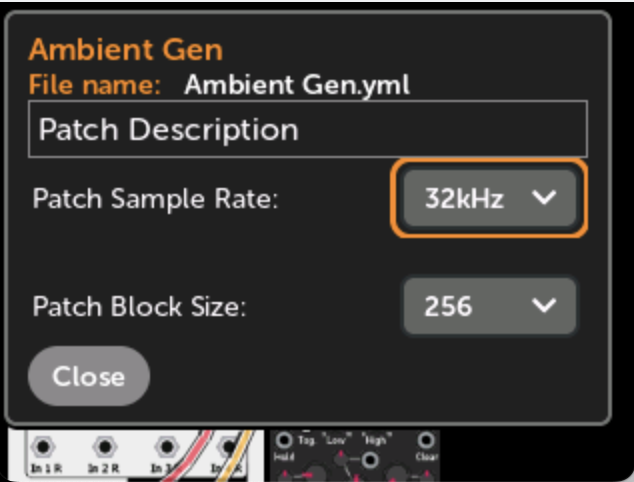
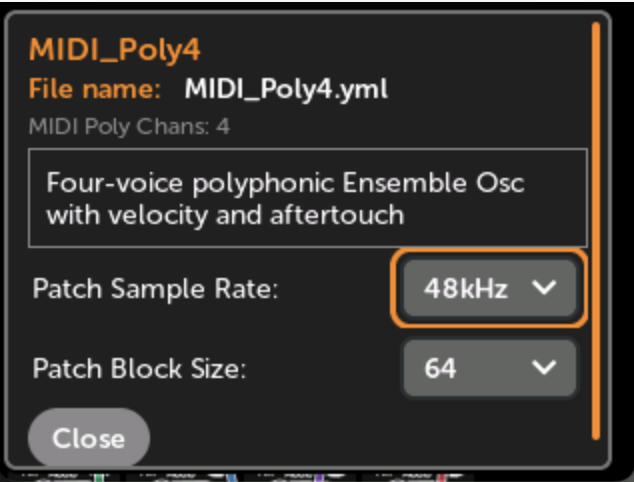
Patch Info and Backup/Load settings

diff --git a/docs/module_patch_settings.md b/docs/module_patch_settings.md
@@ -128,26 +128,45 @@ This option is disabled if both Show Control Maps and Show Panel Jack Maps are o
 
 ---
 
-## Patch Name and Description
+## Patch Info
 
 <div class="grid cards" markdown>
--   __Patch Description__ 
+-   __Patch Info__ 
 
-    The Patch Description page is opened by clicking the (I) info icon when viewing a patch.
+    The Patch Info window is opened by clicking the (I) info icon when viewing a patch.
 
 -   [![Patch View Info icon](./img/patchview-info-icon.png){ .half }](./img/patchview-info-icon.png)
 </div>
 <div class="grid cards" markdown>
--   The patch name, file name, description, MIDI polyphony channels (if MIDI
-    notes are mapped) are shown.
+-   The patch name and file name are shows at the top
 
+    If the patch contains MIDI note mappings, the MIDI polyphony channels is shown below the file name.
     
--   [![Patch View Description](./img/patch-description.png){ .half }](./img/patch-description.png)
+-   [![Patch View Description](./img/patch-info-audio-settings.png){ .half }](./img/patch-info-audio-settings.png)
 </div>
 <div class="grid cards" markdown>
--   Click Edit to edit the description.
+-   Click on the description to edit the text.
    
 -   [![Patch View Description Edit](./img/patch-description-edit.png){ .half }](./img/patch-description-edit.png)
+</div>
+<div class="grid cards" markdown>
+-   __Description__
+     
+    Click on the description to edit the text.
+   
+-   [![Patch View Description Edit](./img/patch-description-edit.png){ .half }](./img/patch-description-edit.png)
+</div>
+<div class="grid cards" markdown>
+-   __Patch Sample Rate and Block Size__
+    
+    You can set the suggested sample rate and block size for each patch. When
+    the "Allow Patch to Override" preference is enabled (see [preferences](preferences.md)),
+    the sample rate and block size will automatically be set to these values
+    when the patch is loaded.
+
+    Changing these values while the patch is playing will immediately change
+    the current sample rate and block size.
+   
 </div>
 
 ---

diff --git a/docs/troubleshooting.md b/docs/troubleshooting.md
@@ -115,5 +115,39 @@ It requires an SD Card which will be formatted. The SD Card must be at least
     available, you can download it from [MetaModule
     Downloads](https://metamodule.info/downloads) and update normally.
 
+## Settings file backup/restore
+
+<div class="grid cards" markdown>
+   All user preferences are stored internally in a file. This includes 
+   the list of plugins to pre-load, module and patch display settings, all
+   options in the Settings > Prefs page, and the name of the initial patch too
+   load.
+
+   [![Backup Settings](./img/backup-restore-settings.png){ .wide-240 }](./img/backup-restore-settings.png)
+
+</div>
+<div class="grid cards" markdown>
+  - Backup settings to file
+
+    For troubleshooting preferences issues, it can be helpful to view the contents
+    of the settings file. Click this button and then select whether you want to save the 
+    file onto the SD card or USB drive. The file will be called `settings.yml`.
+    Open it as plain text on your computer to inspect the contents, or if requested,
+    send it to customer support.
+
+    If the disk already contains a file with this name, it will be overwritten.
+</div>
+<div class="grid cards" markdown>
+  - Load settings from file
+
+    If you want to load a settings file, click this button and select a disk drive
+    to load from. The disk must contain a file naemd `settings.yml`.
+
+    Loading a settings file will overwrite the current settings and prefernces. Some
+    settings will only take effect after a reboot.
+</div>
+
+
+
 
 

diff --git a/docs/preferences.md b/docs/preferences.md
@@ -26,7 +26,7 @@
 
      **Allow patch to override:** (Sample Rate and/or Block Size). Checking this allows patches to change
      the sample rate and/or block size when the patch is loaded. You can view a patch's suggested audio
-     settings in the Info icon of the Patch View page. If a patch is currently overriding the audio
+     settings in the Info icon of the Patch View page. See [Patch Info](module_patch_settings.md#patch-info). If a patch is currently overriding the audio
      settings, then that will be displayed here in orange text. In that case, turning off the override
      preference will restore the default audio setting.
   
